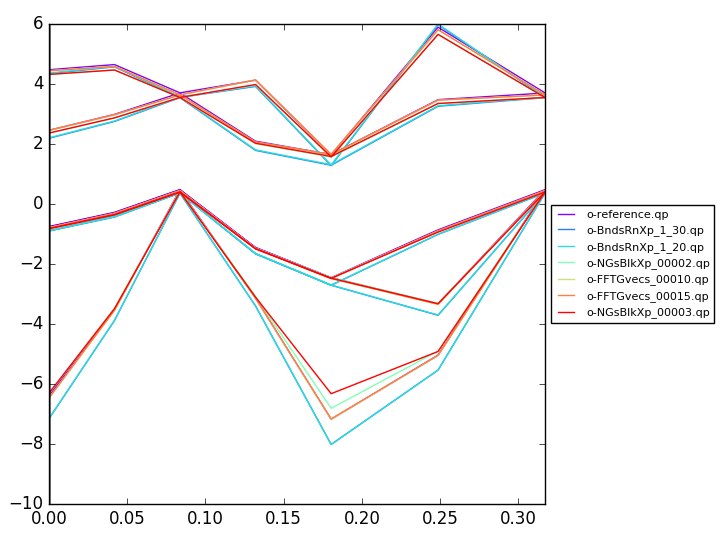
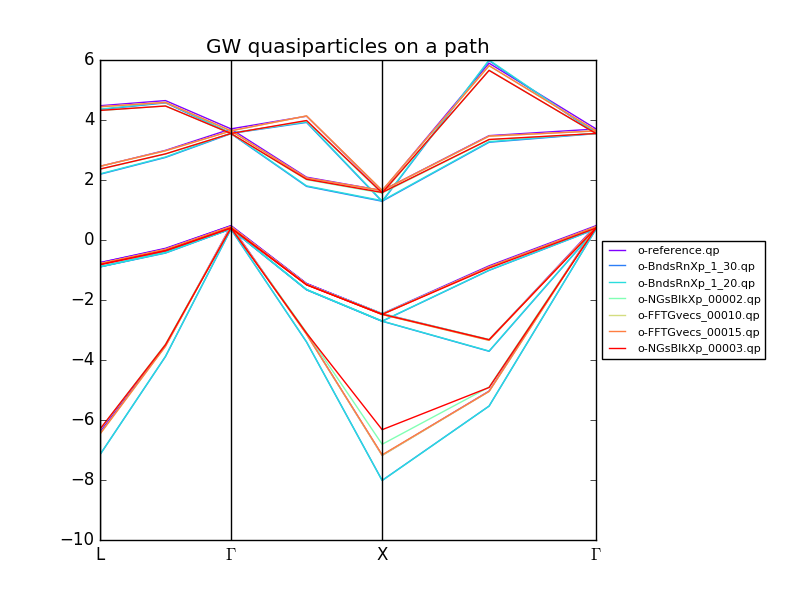
Added labels on the path for GW path

Changed region(s): [[0.0303, 0.0299, 1.0, 0.9869]]

diff --git a/yambopy/analyse.py b/yambopy/analyse.py
@@ -91,11 +91,12 @@ class YamboAnalyser():
         colors = [cmap(i) for i in np.linspace(0, 1, nfiles)]
         return colors
 
-    def plot_gw_path(self,tags,path,cols=(lambda x: x[2]+x[3],),rows=None):
+    def plot_gw_path(self,tags,path_label,cols=(lambda x: x[2]+x[3],),rows=None):
         """ Create a path of k-points and find the points in the regular mesh that correspond to points in the path
             Use these points to plot the GW band structure.
         """
-        path = np.array(path)
+        path = np.array([p[0] for p in path_label])
+        labels = [p[1] for p in path_label]
         plot = False
         colors = self.get_colors(tags)
         fig = plt.figure()
@@ -153,13 +154,13 @@ class YamboAnalyser():
                 #sort the points acoording to distance to the start of the path
                 kpoints_in_path = sorted(kpoints_in_path.values(),key=lambda i: i[1])
                 
-                bands_highsym_qpts.append(distance)
                 #get kpoints_in_pathpoints
-                for index_dist_kpt in kpoints_in_path:
-                    index, disp, kpt = index_dist_kpt
+                if k==0: bands_highsym_qpts.append(kpoints_in_path[0][2])
+                for index, disp, kpt in kpoints_in_path:
                     bands_kpoints.append( kpt )
                     bands_indexes.append( index )
                     print ("%12.8lf "*3)%tuple(kpt), index
+                bands_highsym_qpts.append(kpt)
 
             #calculate distances
             bands_distances = [0]
@@ -183,10 +184,18 @@ class YamboAnalyser():
 
         if plot:
             #plot highsymetry qpoints
-            for x in bands_highsym_qpts:
-                plt.axvline(x,color='k')
+            distance = 0
+            bands_highsym_qpts_distances = [0]
+            for nk in range(1,len(bands_highsym_qpts)):
+                plt.axvline(distance,color='k')
+                distance+=np.linalg.norm(bands_highsym_qpts[nk]-bands_highsym_qpts[nk-1])
+                bands_highsym_qpts_distances.append(distance)
+
+            #plot labels
+            plt.xticks(bands_highsym_qpts_distances, labels)
 
             box = ax.get_position()
+            plt.title('GW quasiparticles on a path')
             ax.set_position([box.x0, box.y0, box.width * 0.8, box.height])
             plt.xlim(0,max(bands_distances))
             ax.legend(loc='center left', bbox_to_anchor=(1, 0.5), prop={'size':8})
@@ -267,6 +276,7 @@ class YamboAnalyser():
             box = ax.get_position()
             ax.set_position([box.x0, box.y0, box.width * 0.8, box.height])
 
+            plt.title('GW quasiparticles on a mesh')
             ax.legend(loc='center left', bbox_to_anchor=(1, 0.5), prop={'size':8})
             plt.show()
 

diff --git a/tutorial/si/gw_conv_si.py b/tutorial/si/gw_conv_si.py
@@ -63,10 +63,11 @@ if args.plot:
     print('plot all qpoints')
     ya.plot_gw('qp')
     print('plot along a path')
-    path = [[0.5,   0,   0],
-            [  0,   0,   0],
-            [  0, 0.5, 0.5],
-            [1.0, 1.0, 1.0]]
+
+    path = [[[0.5,   0,   0],'L'],
+            [[  0,   0,   0],'$\Gamma$'],
+            [[  0, 0.5, 0.5],'X'],
+            [[1.0, 1.0, 1.0],'$\Gamma$']]
     ya.plot_gw_path('qp',path)
 
     print('done!')

diff --git a/docs/source/tutorial.rst b/docs/source/tutorial.rst
@@ -78,7 +78,11 @@ To make a plot of them all you just need to run:
   #plot the results using yambo analyser
   y = YamboAnalyser('gw_conv')
   y.plot_gw('qp')
-  y.plot_gw_path('qp')
+  path = [[[0.5,   0,   0],'L'],
+          [[  0,   0,   0],'$\Gamma$'],
+          [[  0, 0.5, 0.5],'X'],
+          [[1.0, 1.0, 1.0],'$\Gamma$']]
+  ya.plot_gw_path('qp',path)
 
 You can add more plots by simply adding more files in the folder you give as input to the `YamboAnalyser()` class.
 At the end you should obtain a plot like this:
